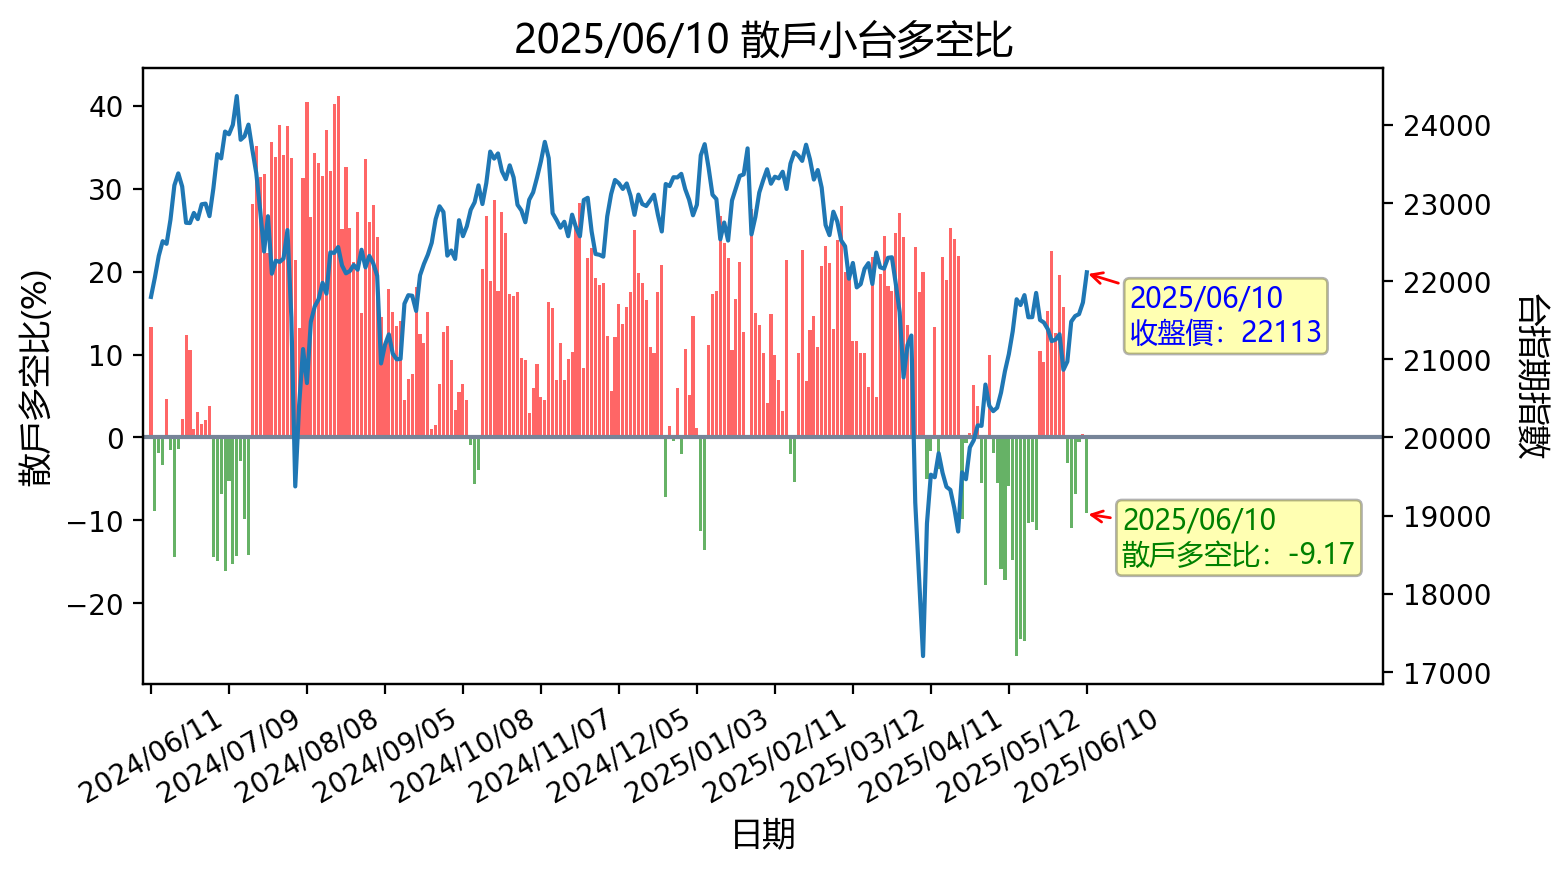
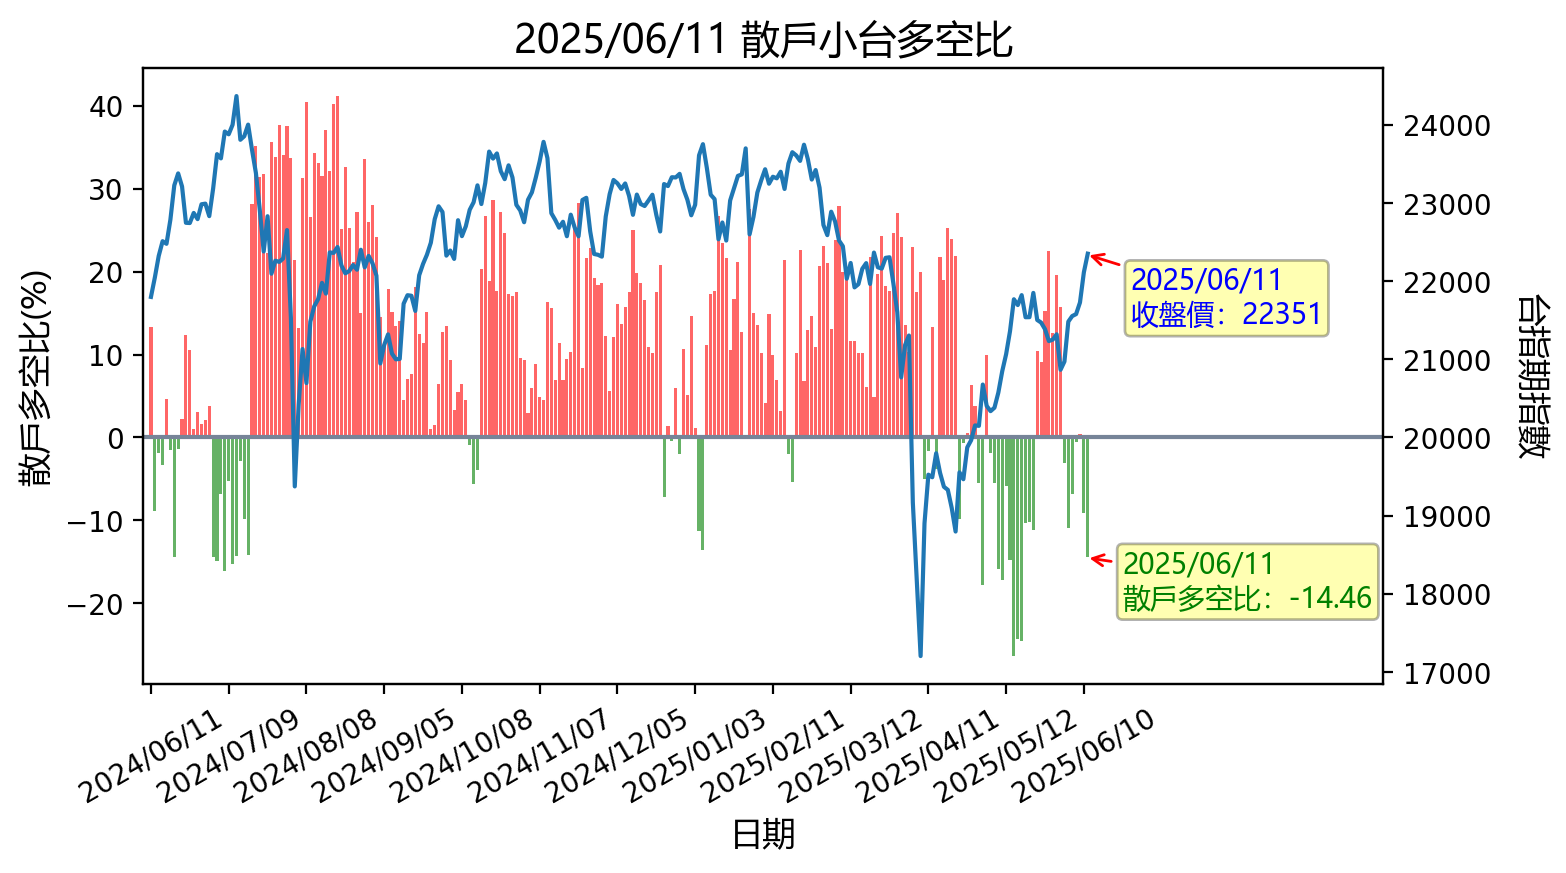
更新時間: Wed Jun 11 16:42:37 CST 2025

diff --git a/README.md b/README.md
@@ -1,12 +1,12 @@
-## 20250610 台指期「預估換倉成本」
+## 20250611 台指期「預估換倉成本」
 ![](images/txfcost.png)
 
-## 20250610 台指期「散戶小台多空比」
+## 20250611 台指期「散戶小台多空比」
 ![](images/bbiri.png)
 
-## 20250610 台指選擇權「Put/Call Ratios」
+## 20250611 台指選擇權「Put/Call Ratios」
 ![](images/pcratio.png)
 
-## 20250610 台指期「大額交易人」
+## 20250611 台指期「大額交易人」
 ![](images/blocktrade.png)
 
